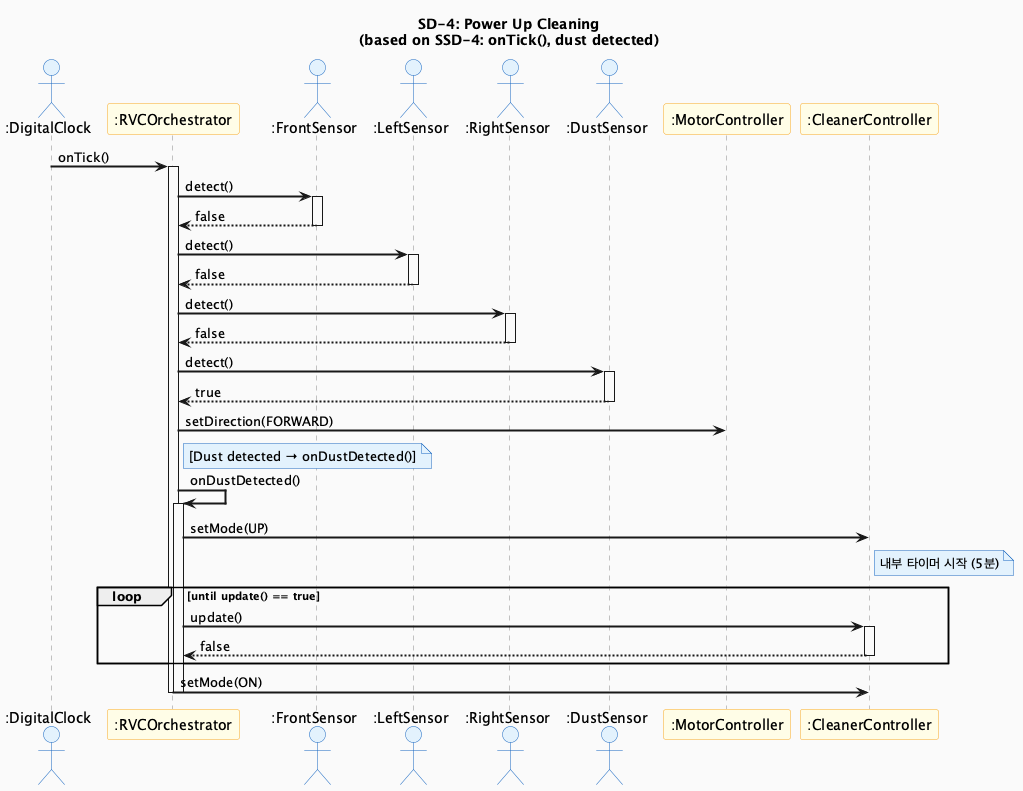
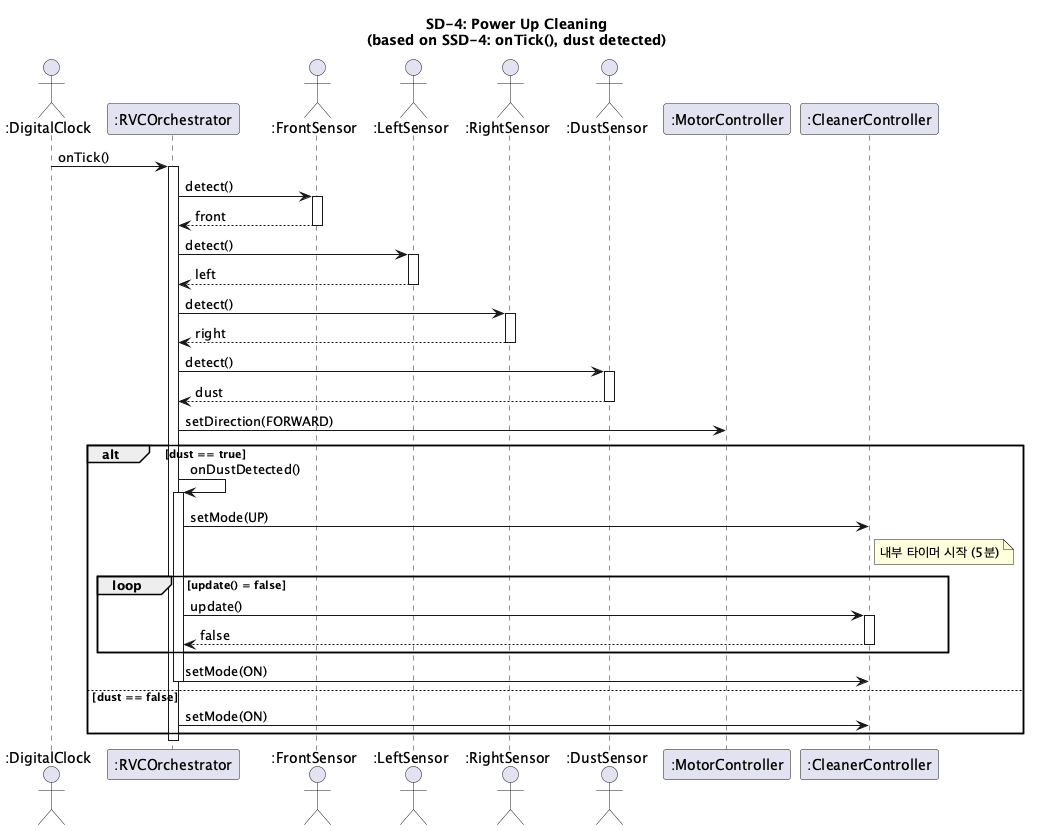
fix(ood/ooi): Add DigitalClock impl, fix Domain Model/Class Diagram, update SD-4 alt/loop
- Implement DigitalClock with configurable intervalMs and start/stop/tick
- Fix Domain Model: RVCOrchestrator operations -> onTick/onFrontDetected, reverse DigitalClock relation
- Fix Class Diagram: Add DigitalClock class, remove stale listens relation
- SD-4: Add alt fragment for dust branch, fix loop guard to update() = false

diff --git a/docs/vibe-coding/04-ooi/code/src/DigitalClock.cpp b/docs/vibe-coding/04-ooi/code/src/DigitalClock.cpp
@@ -1,0 +1,32 @@
+#include "DigitalClock.h"
+#include <chrono>
+
+DigitalClock::DigitalClock(RVCOrchestrator& orch, int intervalMs)
+    : orchestrator(orch), intervalMs(intervalMs) {}
+
+DigitalClock::~DigitalClock() {
+    stop();
+}
+
+void DigitalClock::start() {
+    running = true;
+    clockThread = std::thread(&DigitalClock::run, this);
+}
+
+void DigitalClock::stop() {
+    running = false;
+    if (clockThread.joinable()) {
+        clockThread.join();
+    }
+}
+
+void DigitalClock::tick() {
+    orchestrator.onTick();
+}
+
+void DigitalClock::run() {
+    while (running) {
+        orchestrator.onTick();
+        std::this_thread::sleep_for(std::chrono::milliseconds(intervalMs));
+    }
+}

diff --git a/docs/vibe-coding/04-ooi/code/include/DigitalClock.h b/docs/vibe-coding/04-ooi/code/include/DigitalClock.h
@@ -1,0 +1,24 @@
+#pragma once
+#include <thread>
+#include <atomic>
+#include "RVCOrchestrator.h"
+
+class DigitalClock {
+private:
+    static constexpr int DEFAULT_INTERVAL_MS = 100;
+
+    RVCOrchestrator& orchestrator;
+    int intervalMs;
+    std::atomic<bool> running{false};
+    std::thread clockThread;
+
+    void run();
+
+public:
+    explicit DigitalClock(RVCOrchestrator& orch, int intervalMs = DEFAULT_INTERVAL_MS);
+    ~DigitalClock();
+
+    void start();
+    void stop();
+    void tick();  // 단일 수동 tick (테스트용)
+};
